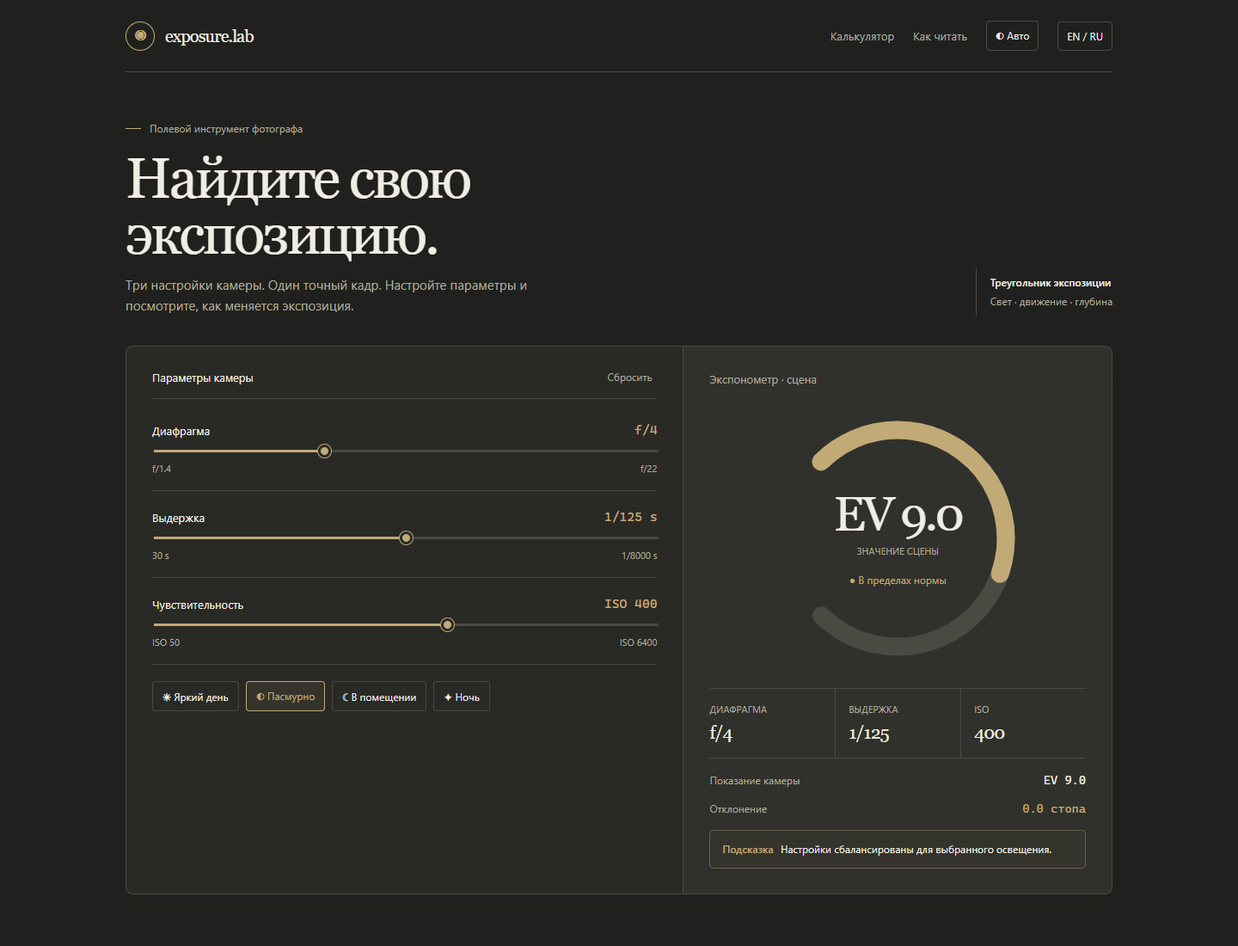
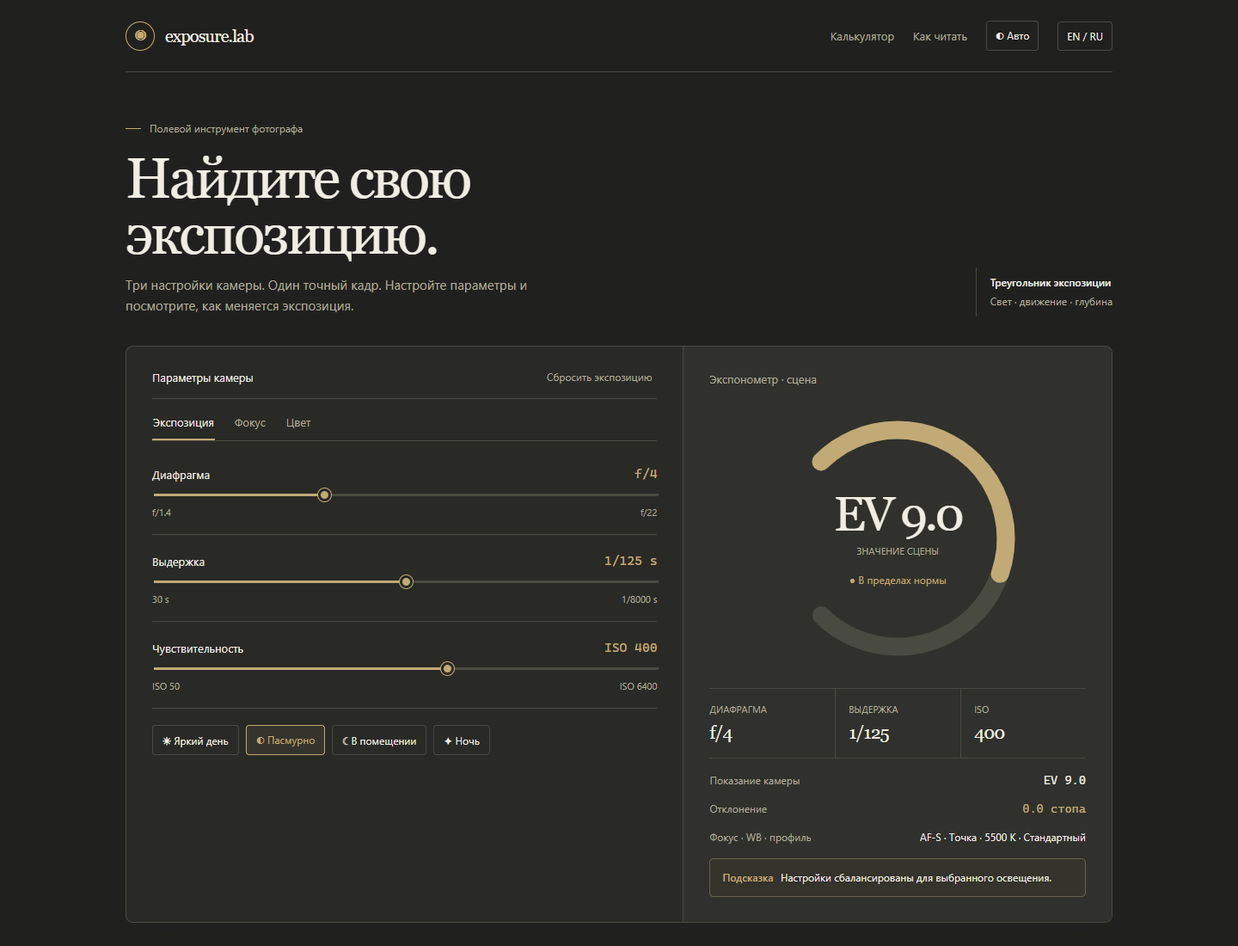
Add focus and color camera settings tabs

diff --git a/index.html b/index.html
@@ -39,6 +39,7 @@
       .learn{padding:66px 0 58px;display:grid;grid-template-columns:.75fr 1.25fr;gap:56px;border-bottom:1px solid var(--line)}.learn h2{font:500 30px/1.1 var(--display);letter-spacing:-.04em;margin:15px 0}.learn-intro{color:var(--muted);font-size:13px;line-height:1.7;max-width:320px}.learn-grid{display:grid;grid-template-columns:1fr 1fr;gap:12px}.learn-card{border:1px solid var(--line);background:var(--panel);border-radius:5px;padding:17px 18px}.learn-card h3{font:15px var(--display);margin:0 0 8px;color:var(--text)}.learn-card p{font-size:12px;line-height:1.65;color:var(--muted);margin:0}.faq{padding:44px 0 60px;max-width:760px}.faq h2{font:500 24px var(--display);letter-spacing:-.04em;margin:0 0 18px}.faq details{border-top:1px solid var(--line);padding:15px 0}.faq summary{cursor:pointer;font-size:13px;list-style:none;display:flex;justify-content:space-between}.faq summary:after{content:'+';color:var(--lime);font:17px var(--mono)}.faq details[open] summary:after{content:'−'}.faq p{font-size:12px;line-height:1.65;color:var(--muted);max-width:680px;margin:12px 0 0}.sr-only{position:absolute;width:1px;height:1px;padding:0;margin:-1px;overflow:hidden;clip:rect(0,0,0,0);white-space:nowrap;border:0}
       @media(max-width:700px){.learn{grid-template-columns:1fr;gap:23px;padding:48px 0 38px}.learn-grid{gap:9px}}
       .hint b{margin-right:5px}
+      .settings-tabs{display:flex;gap:22px;overflow-x:auto;border-bottom:1px solid var(--line);margin:0 0 8px;scrollbar-width:thin}.setting-tab{flex:none;border:0;border-bottom:2px solid transparent;background:none;color:var(--muted);padding:12px 1px 11px;font-size:13px}.setting-tab[aria-selected="true"]{border-bottom-color:var(--lime);color:var(--text)}.setting-panel[hidden]{display:none}.setting-panel{min-height:360px}.camera-field{padding:21px 0 18px;border-bottom:1px solid var(--line);margin:0;min-width:0}.camera-field label,.camera-field legend{display:block;color:var(--text);font-size:13px;margin-bottom:12px}.camera-field legend{padding:0}.camera-field select{width:100%;padding:10px 12px;border:1px solid var(--line);border-radius:4px;background:var(--panel);color:var(--text)}.camera-field select:focus-visible{outline:2px solid var(--lime);outline-offset:2px}.choice-row{display:flex;flex-wrap:wrap;gap:8px}.choice-row .preset[aria-pressed="true"]{border-color:var(--lime);color:var(--lime);background:color-mix(in srgb,var(--lime) 8%,var(--panel))}.camera-range{display:block;width:100%;margin:16px 0 5px}.camera-value{font:13px var(--mono);color:var(--lime)}.camera-note{font-size:12px;line-height:1.55;color:var(--muted);margin:12px 0 0}.camera-range:disabled{opacity:.45}#cameraSummary{max-width:68%;font:12px var(--sans);line-height:1.35;text-align:right}
       @media(prefers-reduced-motion:reduce){*,*::before,*::after{scroll-behavior:auto!important;transition:none!important}}
     </style>
   </head>
@@ -55,11 +56,28 @@
         </section>
         <section class="studio" id="calculator" aria-label="Exposure calculator">
           <div class="controls">
-            <div class="section-head"><div class="section-title" data-i18n="settings">Параметры камеры</div><button class="reset" id="reset" type="button" data-i18n="reset">Сбросить</button></div>
-            <div class="control"><div class="control-top"><label class="label" for="aperture" data-i18n="aperture">Диафрагма</label><output class="value" id="apertureValue">f/4</output></div><input id="aperture" type="range" min="0" max="12" step="1" value="4" aria-label="Aperture"><div class="range-ends"><span>f/1.4</span><span>f/22</span></div></div>
-            <div class="control"><div class="control-top"><label class="label" for="shutter" data-i18n="shutter">Выдержка</label><output class="value" id="shutterValue">1/125 s</output></div><input id="shutter" type="range" min="0" max="16" step="1" value="8" aria-label="Shutter speed"><div class="range-ends"><span>30 s</span><span>1/8000 s</span></div></div>
-            <div class="control"><div class="control-top"><label class="label" for="iso" data-i18n="iso">Чувствительность</label><output class="value" id="isoValue">ISO 400</output></div><input id="iso" type="range" min="0" max="12" step="1" value="7" aria-label="ISO sensitivity"><div class="range-ends"><span>ISO 50</span><span>ISO 6400</span></div></div>
-            <div class="presets" aria-label="Lighting presets"><button class="preset" data-ev="12" data-i18n="preset1">☀ Яркий день</button><button class="preset active" data-ev="9" data-i18n="preset2">◐ Пасмурно</button><button class="preset" data-ev="6" data-i18n="preset3">☾ В помещении</button><button class="preset" data-ev="3" data-i18n="preset4">✦ Ночь</button></div>
+            <div class="section-head"><div class="section-title" data-i18n="settings">Параметры камеры</div><button class="reset" id="reset" type="button" data-i18n="reset">Сбросить экспозицию</button></div>
+            <div class="settings-tabs" role="tablist" aria-label="Настройки камеры">
+              <button class="setting-tab" id="tabExposure" role="tab" aria-selected="true" aria-controls="panelExposure" tabindex="0" data-camera-tab="exposure" data-camera-i18n="tabExposure">Экспозиция</button>
+              <button class="setting-tab" id="tabFocus" role="tab" aria-selected="false" aria-controls="panelFocus" tabindex="-1" data-camera-tab="focus" data-camera-i18n="tabFocus">Фокус</button>
+              <button class="setting-tab" id="tabColor" role="tab" aria-selected="false" aria-controls="panelColor" tabindex="-1" data-camera-tab="color" data-camera-i18n="tabColor">Цвет</button>
+            </div>
+            <section class="setting-panel" id="panelExposure" role="tabpanel" aria-labelledby="tabExposure" data-camera-panel="exposure">
+              <div class="control"><div class="control-top"><label class="label" for="aperture" data-i18n="aperture">Диафрагма</label><output class="value" id="apertureValue">f/4</output></div><input id="aperture" type="range" min="0" max="12" step="1" value="4"><div class="range-ends"><span>f/1.4</span><span>f/22</span></div></div>
+              <div class="control"><div class="control-top"><label class="label" for="shutter" data-i18n="shutter">Выдержка</label><output class="value" id="shutterValue">1/125 s</output></div><input id="shutter" type="range" min="0" max="16" step="1" value="8"><div class="range-ends"><span>30 s</span><span>1/8000 s</span></div></div>
+              <div class="control"><div class="control-top"><label class="label" for="iso" data-i18n="iso">Чувствительность</label><output class="value" id="isoValue">ISO 400</output></div><input id="iso" type="range" min="0" max="12" step="1" value="7"><div class="range-ends"><span>ISO 50</span><span>ISO 6400</span></div></div>
+              <div class="presets" aria-label="Lighting presets"><button class="preset" data-ev="12" data-i18n="preset1">☀ Яркий день</button><button class="preset active" data-ev="9" data-i18n="preset2">◐ Пасмурно</button><button class="preset" data-ev="6" data-i18n="preset3">☾ В помещении</button><button class="preset" data-ev="3" data-i18n="preset4">✦ Ночь</button></div>
+            </section>
+            <section class="setting-panel" id="panelFocus" role="tabpanel" aria-labelledby="tabFocus" data-camera-panel="focus" hidden>
+              <div class="camera-field"><label for="focusMode" data-camera-i18n="focusMode">Режим фокусировки</label><select id="focusMode"><option value="single" data-camera-i18n="focusSingle">Покадровый автофокус (AF-S)</option><option value="continuous" data-camera-i18n="focusContinuous">Следящий автофокус (AF-C)</option><option value="manual" data-camera-i18n="focusManual">Ручная фокусировка (MF)</option></select></div>
+              <fieldset class="camera-field" style="border-left:0;border-right:0;border-top:0;border-radius:0;padding-left:0;padding-right:0"><legend data-camera-i18n="focusArea">Область фокусировки</legend><div class="choice-row"><button class="preset" type="button" data-focus-area="point" aria-pressed="true" data-camera-i18n="focusPoint">Точка</button><button class="preset" type="button" data-focus-area="zone" aria-pressed="false" data-camera-i18n="focusZone">Зона</button><button class="preset" type="button" data-focus-area="tracking" aria-pressed="false" data-camera-i18n="focusTracking">Следящий объект</button></div></fieldset>
+              <div class="camera-field"><div class="control-top"><label for="focusDistance" data-camera-i18n="focusDistance">Дистанция фокусировки</label><output class="camera-value" id="focusDistanceValue">3.0 m</output></div><input class="camera-range" id="focusDistance" type="range" min="0.3" max="50" step="0.1" value="3" disabled><p class="camera-note" id="focusNote">Камера фокусируется один раз после нажатия спуска наполовину.</p></div>
+            </section>
+            <section class="setting-panel" id="panelColor" role="tabpanel" aria-labelledby="tabColor" data-camera-panel="color" hidden>
+              <div class="camera-field"><label data-camera-i18n="whiteBalance">Баланс белого</label><div class="choice-row"><button class="preset" type="button" data-wb="auto" data-temp="5000" data-camera-i18n="wbAuto">Авто</button><button class="preset active" type="button" data-wb="daylight" data-temp="5500" data-camera-i18n="wbDaylight">Дневной свет</button><button class="preset" type="button" data-wb="cloudy" data-temp="6500" data-camera-i18n="wbCloudy">Облачно</button><button class="preset" type="button" data-wb="shade" data-temp="7500" data-camera-i18n="wbShade">Тень</button><button class="preset" type="button" data-wb="tungsten" data-temp="3200" data-camera-i18n="wbTungsten">Лампа</button></div><div class="control-top" style="margin:20px 0 12px"><label for="wbTemperature" data-camera-i18n="temperature">Цветовая температура</label><output class="camera-value" id="wbTemperatureValue">5500 K</output></div><input class="camera-range" id="wbTemperature" type="range" min="2500" max="10000" step="100" value="5500"></div>
+              <div class="camera-field"><div class="control-top"><label for="wbTint" data-camera-i18n="tint">Оттенок</label><output class="camera-value" id="wbTintValue">0</output></div><div class="range-ends"><span data-camera-i18n="green">Зелёный</span><span data-camera-i18n="magenta">Пурпурный</span></div><input class="camera-range" id="wbTint" type="range" min="-10" max="10" step="1" value="0"></div>
+              <div class="camera-field"><label data-camera-i18n="pictureProfile">Цветовой профиль</label><div class="choice-row"><button class="preset active" type="button" data-profile="standard" aria-pressed="true" data-camera-i18n="profileStandard">Стандартный</button><button class="preset" type="button" data-profile="portrait" aria-pressed="false" data-camera-i18n="profilePortrait">Портрет</button><button class="preset" type="button" data-profile="neutral" aria-pressed="false" data-camera-i18n="profileNeutral">Нейтральный</button><button class="preset" type="button" data-profile="mono" aria-pressed="false" data-camera-i18n="profileMono">Монохром</button></div></div>
+            </section>
           </div>
           <aside class="result" aria-live="polite">
             <div class="result-head" data-i18n="meterLabel">Экспонометр · сцена</div>
@@ -67,6 +85,7 @@
             <div class="stats"><div class="stat"><div class="stat-name" data-i18n="statAperture">ДИАФРАГМА</div><div class="stat-value" id="summaryAperture">f/4</div></div><div class="stat"><div class="stat-name" data-i18n="statShutter">ВЫДЕРЖКА</div><div class="stat-value" id="summaryShutter">1/125</div></div><div class="stat"><div class="stat-name">ISO</div><div class="stat-value" id="summaryIso">400</div></div></div>
             <div class="readout"><span data-i18n="cameraEv">Показание камеры</span><strong id="cameraEv">EV 9.0</strong></div>
             <div class="readout" style="padding-top:0"><span data-i18n="difference">Отклонение</span><strong class="good" id="difference">0.0 стопа</strong></div>
+            <div class="readout" style="padding-top:0"><span data-camera-i18n="summaryLabel">Фокус · WB · профиль</span><strong id="cameraSummary">AF-S · 5500 K · Standard</strong></div>
             <div class="hint" id="hint"><b data-i18n="tip">Подсказка</b> <span id="hintText">Настройки сбалансированы для выбранного освещения.</span></div>
           </aside>
         </section>
@@ -82,12 +101,22 @@
       const translations={ru:{navCalc:'Калькулятор',navAbout:'Как читать',eyebrow:'Полевой инструмент фотографа',title:'Найдите свою<br>экспозицию.',intro:'Три настройки камеры. Один точный кадр. Настройте параметры и посмотрите, как меняется экспозиция.',heroStrong:'EXPOSURE TRIANGLE',heroSmall:'Свет · движение · глубина',settings:'Параметры камеры',reset:'Сбросить',aperture:'Диафрагма',shutter:'Выдержка',iso:'Чувствительность',preset1:'☀ Яркий день',preset2:'◐ Пасмурно',preset3:'☾ В помещении',preset4:'✦ Ночь',meterLabel:'Экспонометр · сцена',sceneEv:'ЗНАЧЕНИЕ СЦЕНЫ',balanced:'● В пределах нормы',bright:'● Пересвет',dark:'● Недосвет',statAperture:'ДИАФРАГМА',statShutter:'ВЫДЕРЖКА',cameraEv:'Показание камеры',difference:'Отклонение',stop:'стопа',stops:'стопа',tip:'Подсказка',neutral:'Настройки сбалансированы для выбранного освещения.',over:'Снимок может получиться светлее сцены. Уменьшите выдержку или ISO.',under:'Снимок может получиться темнее сцены. Откройте диафрагму или поднимите ISO.',footer:'Сделано для тех, кто видит свет.',learnEyebrow:'Коротко о главном',aboutTitle:'Как работает экспозиция',aboutBody:'Экспозиция — это количество света, которое камера собирает для кадра. Три настройки управляют светом по-разному.',cardA:'Диафрагма · глубина резкости',cardAText:'Меньшее число f открывает объектив шире и размывает фон. Большее число сохраняет резкость на большей глубине.',cardS:'Выдержка · движение',cardSText:'Короткая выдержка останавливает движение. Длинная собирает больше света и может добавить смаз.',cardI:'ISO · чувствительность',cardIText:'Высокое ISO помогает в темноте, но часто добавляет изображению цифровой шум.',cardEv:'EV · яркость сцены',cardEvText:'Одна ступень экспозиции означает вдвое больше или меньше света. Экспонометр сравнивает выбранные настройки с пресетом сцены.',faqTitle:'Частые вопросы',faqQ1:'Что такое экспозиция в фотографии?',faqA1:'Экспозиция — количество света, попавшего на матрицу. На неё влияют диафрагма, выдержка и ISO.',faqQ2:'Что означает EV?',faqA2:'EV, или экспозиционное число, описывает яркость сцены и сочетание настроек камеры. Изменение на одну ступень удваивает или уменьшает вдвое количество света.'},en:{navCalc:'Calculator',navAbout:'How to read',eyebrow:'A field tool for photographers',title:'Find your<br>exposure.',intro:'Three camera settings. One considered frame. Adjust the controls and see how your exposure changes.',heroStrong:'EXPOSURE TRIANGLE',heroSmall:'Light · motion · depth',settings:'Camera settings',reset:'Reset',aperture:'Aperture',shutter:'Shutter speed',iso:'Sensitivity',preset1:'☀ Bright day',preset2:'◐ Overcast',preset3:'☾ Indoors',preset4:'✦ Night',meterLabel:'Light meter · scene',sceneEv:'SCENE VALUE',balanced:'● Balanced',bright:'● Overexposed',dark:'● Underexposed',statAperture:'APERTURE',statShutter:'SHUTTER',cameraEv:'Camera reading',difference:'Difference',stop:'stop',stops:'stops',tip:'Tip',neutral:'Your settings are balanced for this light.',over:'This frame may look brighter than the scene. Lower shutter speed or ISO.',under:'This frame may look darker than the scene. Open the aperture or raise ISO.',footer:'Made for people who see the light.',learnEyebrow:'The essentials',aboutTitle:'How exposure works',aboutBody:'Exposure is the amount of light a camera gathers for a frame. Three settings shape that light in different ways.',cardA:'Aperture · depth of field',cardAText:'A lower f-number opens the lens wider and blurs the background. A higher number keeps more of the scene in focus.',cardS:'Shutter · motion',cardSText:'A fast shutter freezes motion. A slow shutter gathers more light and can add motion blur.',cardI:'ISO · sensitivity',cardIText:'Higher ISO helps in low light, but often adds digital noise to an image.',cardEv:'EV · scene brightness',cardEvText:'One exposure stop means twice or half the light. The meter compares your camera settings with the chosen scene preset.',faqTitle:'Common questions',faqQ1:'What is exposure in photography?',faqA1:'Exposure is the amount of light that reaches the sensor. Aperture, shutter speed and ISO all affect it.',faqQ2:'What does EV mean?',faqA2:'EV, or exposure value, describes scene brightness and camera settings. A one-stop change doubles or halves the amount of light.'}};
       const $=id=>document.getElementById(id),controls=['aperture','shutter','iso'];let sceneEv=9,lang='ru',themeMode='auto';
       const themeLabels={ru:{auto:'◐ Авто',light:'☼ Светлая',dark:'☾ Тёмная'},en:{auto:'◐ Auto',light:'☼ Light',dark:'☾ Dark'}};
+      const cameraText={ru:{tabExposure:'Экспозиция',tabFocus:'Фокус',tabColor:'Цвет',focusMode:'Режим фокусировки',focusSingle:'Покадровый автофокус (AF-S)',focusContinuous:'Следящий автофокус (AF-C)',focusManual:'Ручная фокусировка (MF)',focusArea:'Область фокусировки',focusPoint:'Точка',focusZone:'Зона',focusTracking:'Следящий объект',focusDistance:'Дистанция фокусировки',focusHintSingle:'Камера фокусируется один раз после нажатия спуска наполовину.',focusHintContinuous:'Камера непрерывно подстраивает фокус за движущимся объектом.',focusHintManual:'Установите дистанцию фокусировки вручную.',whiteBalance:'Баланс белого',wbAuto:'Авто',wbDaylight:'Дневной свет',wbCloudy:'Облачно',wbShade:'Тень',wbTungsten:'Лампа',temperature:'Цветовая температура',tint:'Оттенок',green:'Зелёный',magenta:'Пурпурный',pictureProfile:'Цветовой профиль',profileStandard:'Стандартный',profilePortrait:'Портрет',profileNeutral:'Нейтральный',profileMono:'Монохром',summaryLabel:'Фокус · WB · профиль',resetExposure:'Сбросить экспозицию',cameraTabs:'Настройки камеры'},en:{tabExposure:'Exposure',tabFocus:'Focus',tabColor:'Color',focusMode:'Focus mode',focusSingle:'Single autofocus (AF-S)',focusContinuous:'Continuous autofocus (AF-C)',focusManual:'Manual focus (MF)',focusArea:'Focus area',focusPoint:'Single point',focusZone:'Zone',focusTracking:'Tracking',focusDistance:'Focus distance',focusHintSingle:'The camera locks focus when you half-press the shutter.',focusHintContinuous:'The camera keeps adjusting focus as your subject moves.',focusHintManual:'Set the focus distance by hand.',whiteBalance:'White balance',wbAuto:'Auto',wbDaylight:'Daylight',wbCloudy:'Cloudy',wbShade:'Shade',wbTungsten:'Tungsten',temperature:'Color temperature',tint:'Tint',green:'Green',magenta:'Magenta',pictureProfile:'Picture profile',profileStandard:'Standard',profilePortrait:'Portrait',profileNeutral:'Neutral',profileMono:'Monochrome',summaryLabel:'Focus · WB · profile',resetExposure:'Reset exposure',cameraTabs:'Camera settings'}};
       const fmtShutter=s=>s>=1?`${s} s`:`1/${Math.round(1/s)} s`;
+      function updateCameraLabels(){document.querySelectorAll('[data-camera-i18n]').forEach(el=>{const value=cameraText[lang][el.dataset.cameraI18n];if(value)el.textContent=value});document.querySelector('[role="tablist"]').setAttribute('aria-label',cameraText[lang].cameraTabs);$('reset').textContent=cameraText[lang].resetExposure}
+      function updateCameraSummary(){const focusMode=$('focusMode').value,focusCode={single:'AF-S',continuous:'AF-C',manual:`MF ${Number($('focusDistance').value).toFixed(1)} m`}[focusMode];const area=document.querySelector('[data-focus-area][aria-pressed="true"]').dataset.cameraI18n;const profile=document.querySelector('[data-profile][aria-pressed="true"]').dataset.cameraI18n;const temperature=`${$('wbTemperature').value} K`;$('cameraSummary').textContent=`${focusCode} · ${cameraText[lang][area]} · ${temperature} · ${cameraText[lang][profile]}`;$('focusDistanceValue').textContent=`${Number($('focusDistance').value).toFixed(1)} m`;$('wbTemperatureValue').textContent=temperature;for(const id of ['focusDistance','wbTemperature','wbTint']){const input=$(id);input.style.setProperty('--fill',`${(+input.value-+input.min)/(+input.max-+input.min)*100}%`)}const hint={single:'focusHintSingle',continuous:'focusHintContinuous',manual:'focusHintManual'}[focusMode];$('focusNote').textContent=cameraText[lang][hint]}
+      function showCameraTab(name,moveFocus=false){document.querySelectorAll('[data-camera-tab]').forEach(tab=>{const selected=tab.dataset.cameraTab===name;tab.setAttribute('aria-selected',String(selected));tab.tabIndex=selected?0:-1});document.querySelectorAll('[data-camera-panel]').forEach(panel=>{panel.hidden=panel.dataset.cameraPanel!==name});if(moveFocus)document.querySelector(`[data-camera-tab="${name}"]`).focus()}
       function update(){const ai=+$('aperture').value,si=+$('shutter').value,ii=+$('iso').value;const f=apertureStops[ai],t=shutterSeconds[si],iso=isoValues[ii];const cameraEv=Math.log2((f*f)/t)-Math.log2(iso/100);const deltaRaw=cameraEv-sceneEv,delta=Math.abs(deltaRaw)<.05?0:deltaRaw;const t9=translations[lang];$('apertureValue').textContent=`f/${f}`;$('shutterValue').textContent=fmtShutter(t);$('isoValue').textContent=`ISO ${iso}`;$('summaryAperture').textContent=`f/${f}`;$('summaryShutter').textContent=fmtShutter(t).replace(' s','');$('summaryIso').textContent=iso;$('evNumber').textContent=`EV ${sceneEv.toFixed(1)}`;$('cameraEv').textContent=`EV ${cameraEv.toFixed(1)}`;$('difference').textContent=`${delta>0?'+':''}${delta.toFixed(1)} ${Math.abs(delta)===1?t9.stop:t9.stops}`;$('difference').classList.toggle('good',Math.abs(delta)<.5);$('meterStatus').textContent=Math.abs(delta)<.5?t9.balanced:delta>0?t9.dark:t9.bright;$('meterProgress').style.strokeDasharray=`${Math.max(4,Math.min(75,(sceneEv+3)/21*75))} 100`;$('meterProgress').style.stroke=delta>.5?'var(--orange)':'var(--lime)';$('hintText').textContent=Math.abs(delta)<.5?t9.neutral:delta>0?t9.under:t9.over;for(const id of controls){const input=$(id);const pct=(+input.value-+input.min)/(+input.max-+input.min)*100;input.style.setProperty('--fill',`${pct}%`)}}
       function applyTheme(mode,persist=false){themeMode=mode;document.documentElement.dataset.theme=mode;if(persist){try{localStorage.setItem('exposure-theme',mode)}catch{}}const dark=mode==='dark'||(mode==='auto'&&window.matchMedia('(prefers-color-scheme: dark)').matches);$('themeToggle').textContent=themeLabels[lang][mode];$('themeToggle').setAttribute('aria-label',lang==='ru'?`Тема оформления: ${themeLabels.ru[mode].toLowerCase()}`:`Color theme: ${themeLabels.en[mode].toLowerCase()}`);$('themeToggle').title=lang==='ru'?'Нажмите, чтобы сменить режим темы':'Click to change theme mode';document.querySelector('meta[name="theme-color"]').content=dark?'#20211e':'#eeeae1'}
       function setLanguage(next){lang=next;document.documentElement.lang=next;document.title=next==='ru'?'Exposure Lab — калькулятор экспозиции':'Exposure Lab — exposure calculator';document.querySelectorAll('[data-i18n]').forEach(el=>{const key=el.dataset.i18n;if(translations[next][key])el.innerHTML=translations[next][key]});$('language').textContent=next==='ru'?'EN / RU':'RU / EN';document.querySelector('meta[name="description"]').content=next==='ru'?translations.ru.intro:translations.en.intro;$('heroStrong').textContent=next==='ru'?'Треугольник экспозиции':'Exposure triangle';applyTheme(themeMode);update()}
       try{const savedMode=localStorage.getItem('exposure-theme');if(['auto','light','dark'].includes(savedMode))themeMode=savedMode}catch{themeMode='auto'}
-      controls.forEach(id=>$(id).addEventListener('input',update));document.querySelectorAll('.preset').forEach(btn=>btn.addEventListener('click',()=>{sceneEv=+btn.dataset.ev;document.querySelectorAll('.preset').forEach(p=>p.classList.toggle('active',p===btn));update()}));$('reset').addEventListener('click',()=>{$('aperture').value=4;$('shutter').value=8;$('iso').value=7;sceneEv=9;document.querySelectorAll('.preset').forEach(p=>p.classList.toggle('active',p.dataset.ev==='9'));update()});$('language').addEventListener('click',()=>setLanguage(lang==='ru'?'en':'ru'));$('themeToggle').addEventListener('click',()=>applyTheme({auto:'light',light:'dark',dark:'auto'}[themeMode],true));window.matchMedia('(prefers-color-scheme: dark)').addEventListener('change',()=>{if(themeMode==='auto')applyTheme('auto')});applyTheme(themeMode);if(new URLSearchParams(location.search).get('lang')==='en')setLanguage('en');update();
+      controls.forEach(id=>$(id).addEventListener('input',update));document.querySelectorAll('[data-ev]').forEach(btn=>btn.addEventListener('click',()=>{sceneEv=+btn.dataset.ev;document.querySelectorAll('[data-ev]').forEach(p=>p.classList.toggle('active',p===btn));update()}));$('reset').addEventListener('click',()=>{$('aperture').value=4;$('shutter').value=8;$('iso').value=7;sceneEv=9;document.querySelectorAll('[data-ev]').forEach(p=>p.classList.toggle('active',p.dataset.ev==='9'));update()});$('language').addEventListener('click',()=>setLanguage(lang==='ru'?'en':'ru'));$('themeToggle').addEventListener('click',()=>applyTheme({auto:'light',light:'dark',dark:'auto'}[themeMode],true));window.matchMedia('(prefers-color-scheme: dark)').addEventListener('change',()=>{if(themeMode==='auto')applyTheme('auto')});applyTheme(themeMode);if(new URLSearchParams(location.search).get('lang')==='en')setLanguage('en');update();
+      document.querySelectorAll('[data-camera-tab]').forEach(tab=>{tab.addEventListener('click',()=>showCameraTab(tab.dataset.cameraTab));tab.addEventListener('keydown',event=>{const tabs=[...document.querySelectorAll('[data-camera-tab]')],index=tabs.indexOf(tab);let next=null;if(event.key==='ArrowRight')next=tabs[(index+1)%tabs.length];if(event.key==='ArrowLeft')next=tabs[(index+tabs.length-1)%tabs.length];if(event.key==='Home')next=tabs[0];if(event.key==='End')next=tabs[tabs.length-1];if(next){event.preventDefault();showCameraTab(next.dataset.cameraTab,true)}})});
+      $('language').addEventListener('click',()=>{updateCameraLabels();updateCameraSummary()});$('focusMode').addEventListener('change',()=>{$('focusDistance').disabled=$('focusMode').value!=='manual';updateCameraSummary()});$('focusDistance').addEventListener('input',updateCameraSummary);
+      document.querySelectorAll('[data-focus-area]').forEach(button=>button.addEventListener('click',()=>{document.querySelectorAll('[data-focus-area]').forEach(option=>option.setAttribute('aria-pressed',String(option===button)));updateCameraSummary()}));
+      document.querySelectorAll('[data-wb]').forEach(button=>button.addEventListener('click',()=>{$('wbTemperature').value=button.dataset.temp;document.querySelectorAll('[data-wb]').forEach(option=>option.classList.toggle('active',option===button));updateCameraSummary()}));$('wbTemperature').addEventListener('input',()=>{document.querySelectorAll('[data-wb]').forEach(option=>option.classList.remove('active'));updateCameraSummary()});$('wbTint').addEventListener('input',()=>{$('wbTintValue').textContent=Number($('wbTint').value)>0?`+${$('wbTint').value}`:$('wbTint').value});
+      document.querySelectorAll('[data-profile]').forEach(button=>button.addEventListener('click',()=>{document.querySelectorAll('[data-profile]').forEach(option=>option.setAttribute('aria-pressed',String(option===button)));updateCameraSummary()}));
+      updateCameraLabels();updateCameraSummary();
     </script>
   </body>
 </html>

diff --git a/README.md b/README.md
@@ -6,6 +6,7 @@ An interactive, browser-based exposure calculator for photographers. Adjust aper
 
 - Responsive Russian and English interface
 - Automatic theme follows the device setting; light and dark modes can be selected and remembered
+- Camera-setting tabs for exposure, autofocus, white balance, tint and picture profiles
 - Live exposure value and stop-difference readout
 - Lighting presets for daylight, overcast, indoor and night scenes
 - No account, server or build step required
@@ -19,6 +20,8 @@ Open `index.html` in a modern browser. The calculator runs locally; Google Fonts
 
 ![Exposure Lab in light mode](screenshots/exposure-lab-light.png)
 ![Exposure Lab in dark mode](screenshots/exposure-lab-dark.png)
+![Focus settings](screenshots/exposure-lab-focus.png)
+![Color settings](screenshots/exposure-lab-color.png)
 
 ## SEO and location
 
@@ -38,6 +41,7 @@ MIT
 
 - Адаптивный интерфейс на русском и английском
 - Автотема следует настройке устройства; светлый и тёмный режимы можно выбрать и сохранить
+- Вкладки с настройками экспозиции, автофокуса, баланса белого, оттенка и цветового профиля
 - Расчёт экспозиционного числа и отклонения в стопах в реальном времени
 - Пресеты для ясного дня, пасмурной погоды, помещения и ночи
 - Не требует регистрации, сервера или сборки
@@ -51,6 +55,8 @@ MIT
 
 ![Exposure Lab в светлой теме](screenshots/exposure-lab-light.png)
 ![Exposure Lab в тёмной теме](screenshots/exposure-lab-dark.png)
+![Настройки фокусировки](screenshots/exposure-lab-focus.png)
+![Настройки цвета](screenshots/exposure-lab-color.png)
 
 ## SEO и география
 
